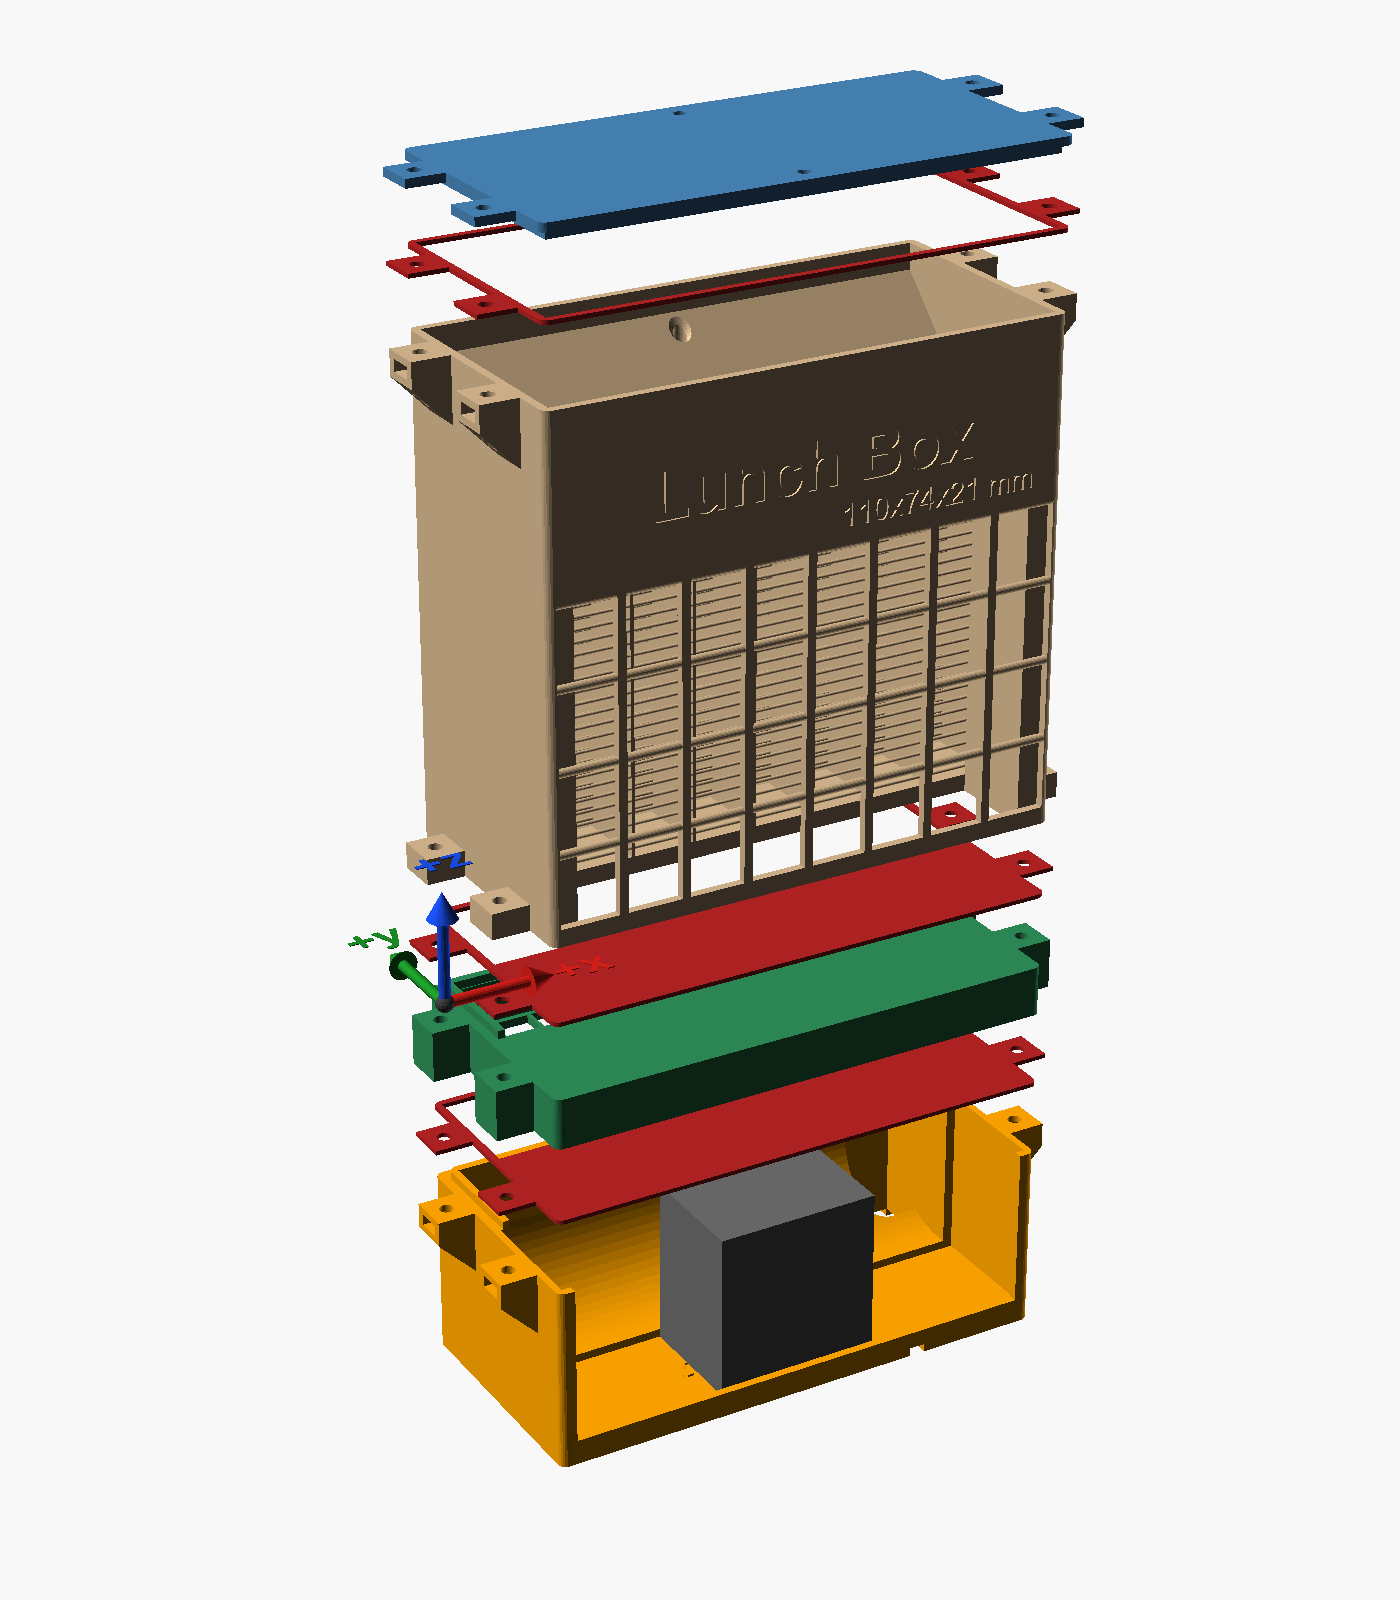
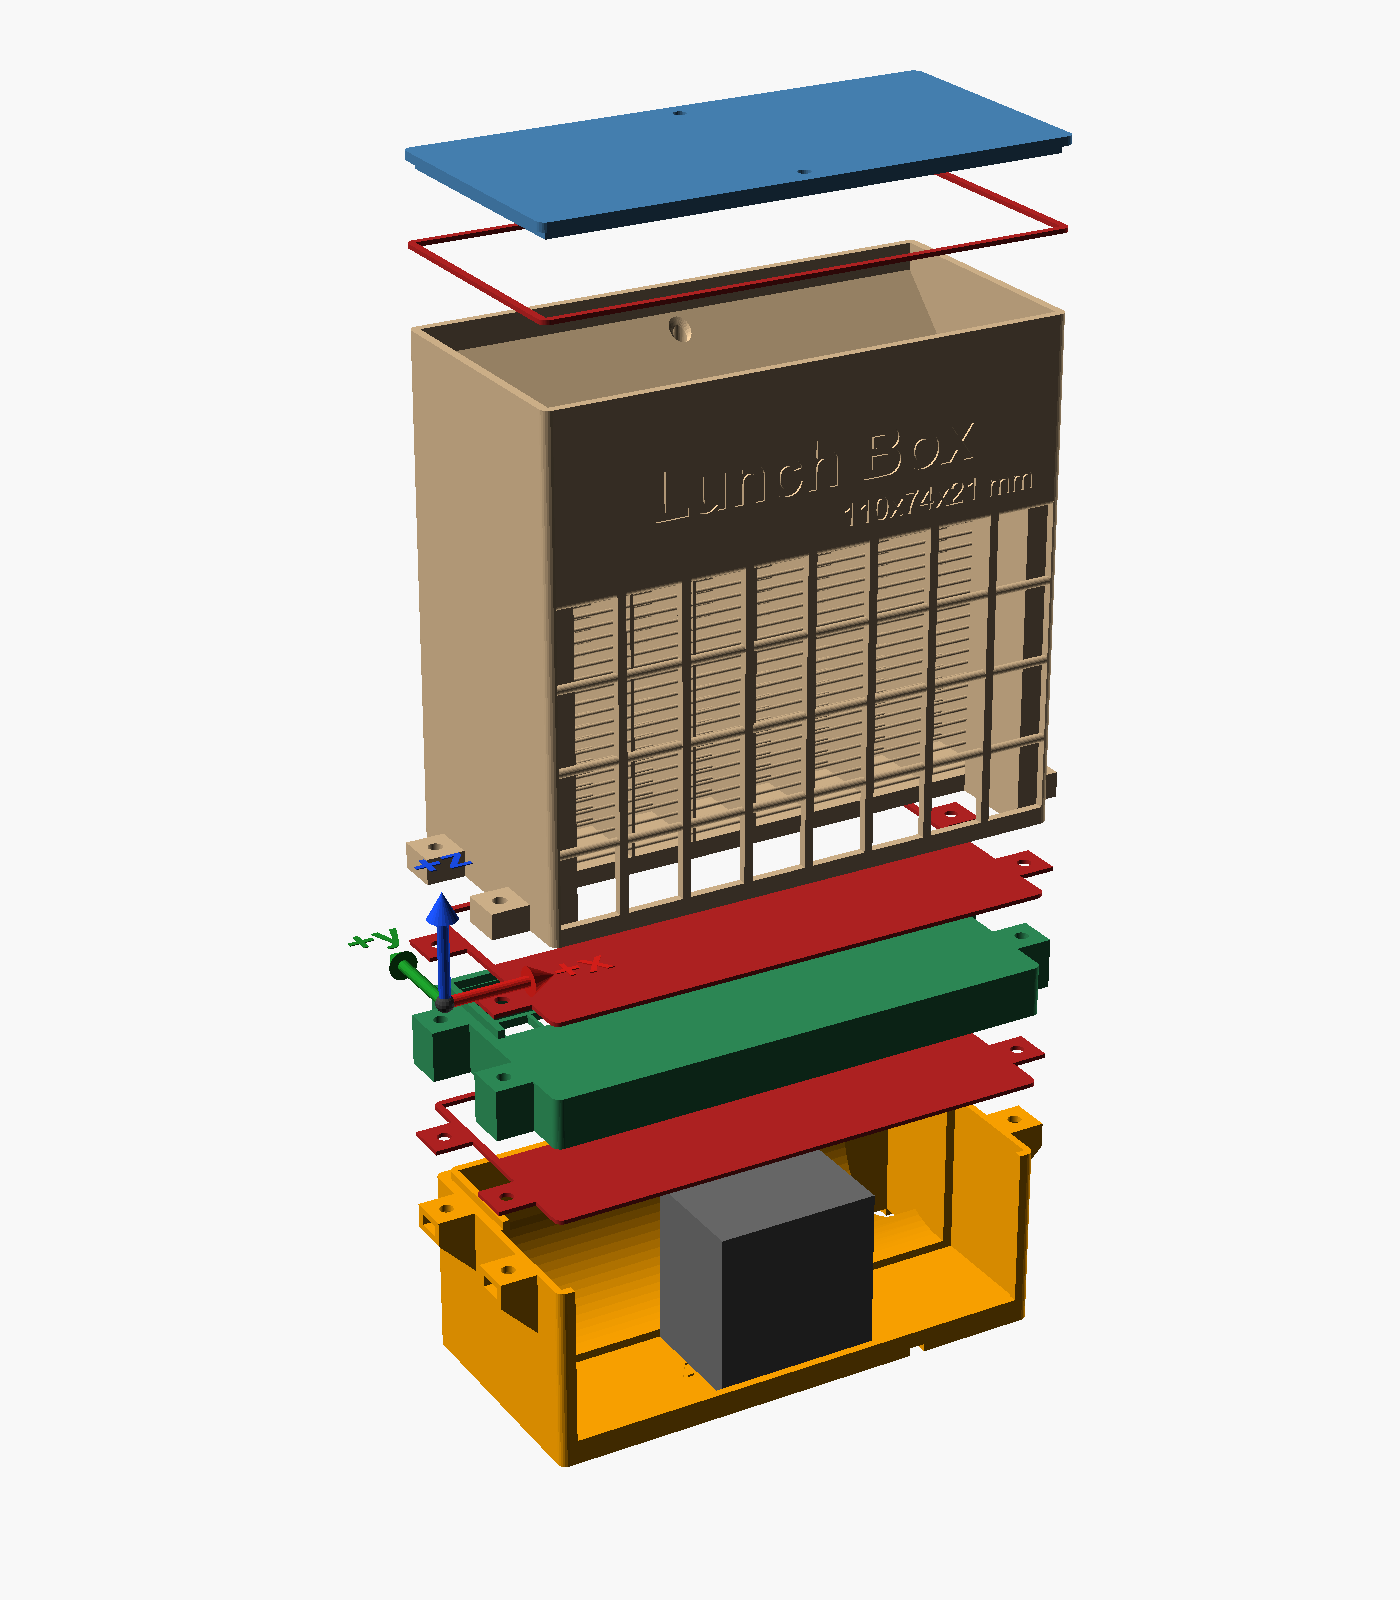
feat(lunchbox): the lid keeps its own screws; its tabs go
The lid already has two screws into bosses in the body, and they clamp
its gasket (Alon, 7 Oct 2026). So the lid's tabs and the body's top
tabs are gone, the lid prints as the original, and its gasket is a
plain ring with no ears.

The lid's screws are M3 x 20: the body's 3 mm holes start in bosses
5.4 to 7.9 mm below its rim and run at least 12.5 mm deep, measured by
cutting the body every 2.5 mm, so the gasket still leaves them 9 to
11.6 mm of thread. 11 fits empty, 10 of 10 controls caught; the parts
that changed pass scad-check.sh.

diff --git a/scripts/lunchbox-checks.py b/scripts/lunchbox-checks.py
@@ -37,7 +37,7 @@ BACKEND = ["--backend=manifold"]
 FITS = [("check_insert_body", [("tabbed", "true")]), ("check_insert_body", [("tabbed", "false"), ("insert_tabs", "false")]),
         ("check_insert_fans", [("tabbed", "true")]), ("check_insert_fans", [("tabbed", "false"), ("insert_tabs", "false")]),
         ("check_blank", []), ("check_gasket_fans", []), ("check_gasket_insert", []), ("check_gasket_lid", []),
-        ("check_tabs_lid", []), ("check_tabs_fans", []), ("check_air_insert", []), ("check_air_plenum", [])]
+        ("check_tabs_fans", []), ("check_air_insert", []), ("check_air_plenum", [])]
 
 # Each control breaks ONE side of its check's relationship - a modelled feature against the original's
 # fixed mesh, or against a probe built from the original's measurements - never both, so that the check
@@ -50,7 +50,6 @@ CONTROLS = [
     ("check_gasket_fans", [("gasket_open_y0", "32")], "the fans' gasket left over the front of the lip"),
     ("check_gasket_insert", [("gasket_open_y0", "32")], "the same gasket against the insert's lip"),
     ("check_gasket_lid", [("gasket_hx", "59.5")], "the lid's gasket ring made wider, onto the lid's plug"),
-    ("check_tabs_lid", [("lid_tab_z", "116.43")], "the lid's tabs dropped 1 mm, into the body's"),
     ("check_tabs_fans", [("fans_tab_z0", "-5")], "the fan section's tabs raised 1 mm, into the body's"),
     ("check_air_insert", [("cav_y1", "50")], "the insert's cavity cut short of the channel's back"),
     ("check_air_plenum", [("probe_h", "30")], "the probe sent down to the plenum's curved floor"),

diff --git a/docs/lunchbox-scrubber.md b/docs/lunchbox-scrubber.md
@@ -14,7 +14,7 @@ The remix adds four things and leaves the originals as they are, apart from tabs
 | **Insert** | A section between the body and the fan section, holding a flat filter sheet that stops carbon dust reaching the fans. Its top is the fan section's lip and its bottom the body's groove, so it drops into any LunchBox. | [`lunchbox-insert.scad`](../models/lunchbox/lunchbox-insert.scad), or [`lunchbox-insert-plain.scad`](../models/lunchbox/lunchbox-insert-plain.scad) without tabs |
 | **Gaskets** | TPU. A ring for the lid. For each joint at the fans, a sheet that is solid under the HEPA paper and over the fans — the paper's bottom edge sits on it, and the fans get air only through the carbon — and open behind, where the air goes down. | [`lunchbox-gasket-lid.scad`](../models/lunchbox/lunchbox-gasket-lid.scad), [`lunchbox-gasket-fans.scad`](../models/lunchbox/lunchbox-gasket-fans.scad) |
 | **Blank** | Closes the fan section's middle bay: two fans, one in each outer bay. | [`lunchbox-blank.scad`](../models/lunchbox/lunchbox-blank.scad) |
-| **Tabs** | Two on each short end at every joint, clamped by an M3 screw into a nut that slides into a slot. Added to the original body, lid and fan section. | [`lunchbox-body.scad`](../models/lunchbox/lunchbox-body.scad), [`lunchbox-lid.scad`](../models/lunchbox/lunchbox-lid.scad), [`lunchbox-fans.scad`](../models/lunchbox/lunchbox-fans.scad) |
+| **Tabs** | Two on each short end of the fan joint, clamped by an M3 screw into a nut that slides into a slot. Added to the original body and fan section. The lid needs none: its own two screws clamp its gasket. | [`lunchbox-body.scad`](../models/lunchbox/lunchbox-body.scad), [`lunchbox-fans.scad`](../models/lunchbox/lunchbox-fans.scad) |
 
 **Not printed yet.** Every fit is checked against the original's STLs (see *Checking it*), not yet
 against printed parts.
@@ -46,27 +46,27 @@ printing stand on a 45° support of their own, and the nut slots' roofs are shor
 |---|---|---|---|---|
 | Insert | ASA | 1 | 2 h 24 m | 26 g |
 | Gasket, fans | TPU 95A | 2 with the insert, 1 without | 1 h 2 m | 6 g |
-| Gasket, lid | TPU 95A | 1 | 14 m | 1 g |
+| Gasket, lid | TPU 95A | 1 | 8 m | 1 g |
 | Blank | ASA | 1 | 1 h 6 m | 9 g |
-| Body, with tabs | ASA | 1 | 13 h 38 m | 128 g |
+| Body, with tabs | ASA | 1 | 13 h 19 m | 126 g |
 | Fan section, with tabs | ASA | 1 | 4 h 13 m | 45 g |
-| Lid, with tabs | ASA | 1 | 1 h 27 m | 19 g |
 
 Times and weights are PrusaSlicer's, at 0.2 mm with the house profile `0.2mm QUALITY @MK3 - no skirt, no
 brim, no crossing perimeter`, as [`scad-check.sh`](https://github.com/AlonRR/scad-tools) slices them.
-Print the HEPA frame, `furnace_filter.stl`, as it comes.
+Print the lid, `filter_lid_110x74x21.stl`, and the HEPA frame, `furnace_filter.stl`, as they come.
 
 ## Hardware
 
 | Quantity | Item |
 |---|---|
 | 4 | M3 × 30 socket head cap screw — the fan joint, through the insert |
-| 4 | M3 × 10 socket head cap screw — the lid |
-| 8 | M3 hex nut, ISO 4032 |
+| 4 | M3 hex nut, ISO 4032 |
+| 2 | M3 × 20 screw — the lid's own two, into the body's 3 mm holes |
 | 2 | 40 × 40 × 20 mm 12 V fan |
 | 1 | polyester filter floss, 115 × 25 mm |
 
-Without the insert, the fan joint takes M3 × 16 instead. The lid keeps its own two screws as well.
+Without the insert, the fan joint takes M3 × 16 instead. The lid's screws go 9–12 mm into the body's
+bosses through the lid and its gasket; the holes are at least 12.5 mm deep.
 
 ## Putting it together
 
@@ -79,8 +79,7 @@ Without the insert, the fan joint takes M3 × 16 instead. The lid keeps its own 
 5. **The body,** with the HEPA paper in its frame pushed up into the holder from below. Screw the stack
    together with the four M3 × 30, down through the body's tabs and the insert into the nuts.
 6. **Carbon** in from the top, through the funnel.
-7. **The lid:** a nut in each of the body's top tabs, the lid's gasket on the rim, the lid, the four
-   M3 × 10, and the lid's own two screws.
+7. **The lid:** its gasket on the rim, the lid, and its two M3 × 20.
 
 ## Checking it
 
@@ -93,7 +92,7 @@ OPENSCAD="<the OpenSCAD nightly>" uv run scripts/lunchbox-checks.py all
 ```
 
 It intersects every pair of parts that meet — the insert with the body, the insert with the fan section,
-the blank with its bay, each gasket with what passes through it, the tabs of each joint — and the air's
+the blank with its bay, each gasket with what passes through it, the fan joint's tabs — and the air's
 way through the insert and into the plenum. Each must come out empty. Every check has a positive control,
 something broken on purpose that it must catch, and the run fails if one passes unnoticed. The body is
 an 8 MB mesh, so it needs the nightly, whose Manifold backend does in seconds what the 2021.01 release
